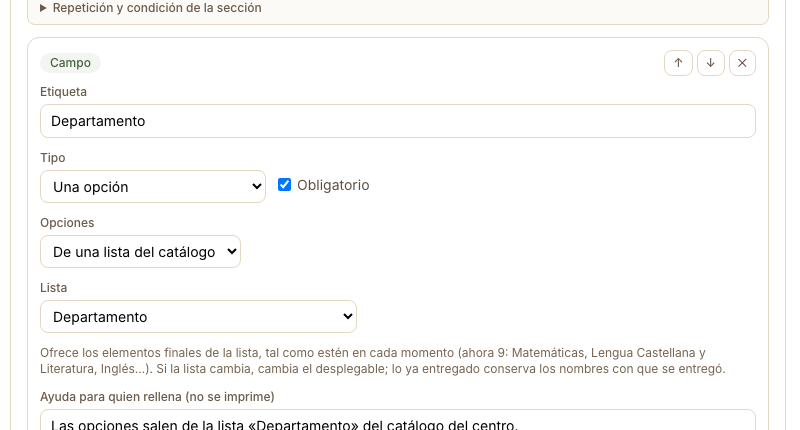
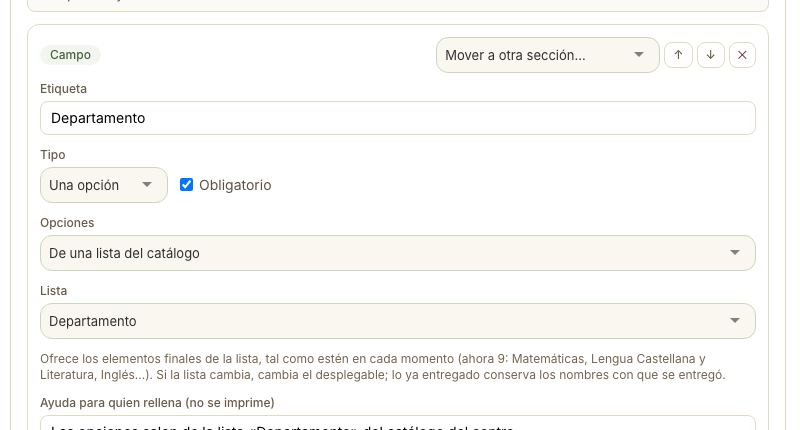
feat(forms): mover un modelo a otra carpeta, mover un bloque a otra sección y «Calcular %» en el resumen de la fila
- «Mover a otra carpeta» en el menú ⋯ de cada modelo: a cualquier carpeta del centro, con sus revisiones; la carpeta de destino decide la revisión y las actividades lo siguen usando. Queda en el registro de actividad.
- Editor: desplegable «Mover a otra sección…» en cada bloque, que lo lleva al final de la sección elegida conservando su clave.
- Resumen de la fila: «Calcular %» escribe [r:A] / [r:B] * 100 con dos columnas elegidas; vacío si B es 0 o está vacía.
- Manual, skills/forms.md y capturas del editor y de la lista de modelos actualizados.

diff --git a/assets/controllers/form_model_editor_controller.js b/assets/controllers/form_model_editor_controller.js
@@ -533,16 +533,53 @@ export default class extends Controller {
         ]);
     }
 
+    /**
+     * Takes a block to the end of another section (any, at any depth). Its key goes with it, so what refers to it still does; whether
+     * it still can from there (in or out of a repeated section) the checks of the draft say, as for any other edit.
+     */
+    moveBlockTo(section, block, targetKey) {
+        const target = this.locate(targetKey);
+        const from = section.blocks.indexOf(block);
+        if (!target || from < 0 || targetKey === section.key) {
+            return;
+        }
+        section.blocks.splice(from, 1);
+        target.list[target.index].blocks.push(block);
+        this.changed();
+        // To where it went, so that it is seen landing.
+        requestAnimationFrame(() => document.getElementById('blk-' + block.key)?.scrollIntoView({ behavior: 'smooth', block: 'center' }));
+    }
+
+    /** Every section but `except`, in reading order, as [key, "2.1. Title"]. */
+    sectionChoices(except) {
+        const numbers = sectionNumbers(this.def.sections);
+        const out = [];
+        const visit = (list, depth) => list.forEach((s) => {
+            if (s.key !== except) {
+                out.push([s.key, ' '.repeat(depth) + (numbers.get(s.key) ? numbers.get(s.key) + '. ' : '') + (s.title || this.l.section)]);
+            }
+            visit(s.children, depth + 1);
+        });
+        visit(this.def.sections, 0);
+
+        return out;
+    }
+
     blockEl(section, block, index) {
         const kinds = { text: this.l.add_text, field: this.l.add_field, table: this.l.add_table };
-        const controls = h('div', { class: 'flex items-center gap-1', role: 'group', 'aria-label': this.l.block_actions }, [
+        const others = this.sectionChoices(section.key);
+        const moveTo = others.length === 0 ? null : h('div', { class: 'w-56' }, [
+            this.select('', [['', this.l.move_to], ...others], (v) => { if (v) { this.moveBlockTo(section, block, v); } }, this.l.move_to),
+        ]);
+        const controls = h('div', { class: 'flex flex-wrap items-center justify-end gap-1', role: 'group', 'aria-label': this.l.block_actions }, [
+            moveTo,
             h('button', { type: 'button', class: BTN, title: this.l.up, 'aria-label': this.l.up, text: '↑', disabled: index === 0, onclick: () => this.moveIn(section.blocks, index, -1) }),
             h('button', { type: 'button', class: BTN, title: this.l.down, 'aria-label': this.l.down, text: '↓', disabled: index === section.blocks.length - 1, onclick: () => this.moveIn(section.blocks, index, 1) }),
             h('button', { type: 'button', class: BTN + ' text-red-700', title: this.l.remove, 'aria-label': this.l.remove, text: '✕', onclick: () => this.removeFrom(section.blocks, index) }),
         ]);
         const body = block.type === 'text' ? this.textBody(block, section) : block.type === 'field' ? this.fieldBody(block) : this.tableBody(block);
 
-        return h('div', { class: 'rounded-xl border border-gray-200 bg-white p-3' }, [
+        return h('div', { id: 'blk-' + block.key, class: 'scroll-mt-20 rounded-xl border border-gray-200 bg-white p-3' }, [
             h('div', { class: 'mb-2 flex items-center justify-between gap-2' }, [
                 h('span', { class: 'rounded-full bg-forest-50 px-2.5 py-0.5 text-xs font-medium text-forest-700', text: kinds[block.type] }),
                 controls,
@@ -944,9 +981,15 @@ export default class extends Controller {
         const numeric = (c) => NUMERIC_TYPES.includes(c.fieldType);
         const read = readRowSummary(current());
         const state = { fn: read ? read.fn : 'sum', keys: read ? read.keys : [] };
-        const apply = () => { if (state.keys.length > 0) { set(rowSummary(state.fn, state.keys)); } };
-        const names = { sum: this.l.total_sum, avg: this.l.total_avg, min: this.l.total_min, max: this.l.total_max, count: this.l.row_summary_count };
-        const fnSelect = this.select(state.fn, ROW_SUMMARY.map((f) => [f, names[f]]), (v) => { state.fn = v; draw(); apply(); }, this.l.row_summary_fn);
+        const apply = () => { const formula = rowSummary(state.fn, state.keys); if (formula !== '') { set(formula); } };
+        const names = { sum: this.l.total_sum, avg: this.l.total_avg, min: this.l.total_min, max: this.l.total_max, count: this.l.row_summary_count, pct: this.l.row_summary_pct };
+        const fnSelect = this.select(state.fn, ROW_SUMMARY.map((f) => [f, names[f]]), (v) => {
+            // Into the percentage: the first two ticked are A and B; out of it, A and B stay ticked.
+            state.keys = v === 'pct' ? state.keys.slice(0, 2) : state.keys.filter((k) => k);
+            state.fn = v;
+            draw();
+            apply();
+        }, this.l.row_summary_fn);
         const list = h('div');
         const body = h('div', { class: 'mt-2 space-y-2' }, [
             h('p', { class: 'text-xs text-gray-500', text: this.l.row_summary_help }),
@@ -956,10 +999,20 @@ export default class extends Controller {
         const draw = () => {
             // Counting takes any column; the other calculations only the numeric ones.
             const columns = (table.columns || []).filter((c) => c.key !== column.key && (state.fn === 'count' || numeric(c)));
-            state.keys = state.keys.filter((k) => columns.some((c) => c.key === k));
+            const known = (k) => columns.some((c) => c.key === k);
+            // The percentage keeps its two places (A, B), even while one is not chosen yet.
+            state.keys = state.fn === 'pct' ? [0, 1].map((i) => (known(state.keys[i]) ? state.keys[i] : '')) : state.keys.filter(known);
+            const pick = (i, label) => this.labelled(label, this.select(state.keys[i], [['', this.l.row_summary_pick], ...columns.map((c) => [c.key, c.label || '…'])], (v) => {
+                state.keys[i] = v;
+                apply();
+            }, label), 'min-w-48');
             list.replaceChildren(
                 columns.length === 0
                     ? h('p', { class: 'text-xs text-gray-500', text: this.l.row_summary_none })
+                    : state.fn === 'pct' ? h('div', { class: 'space-y-1' }, [
+                        h('div', { class: 'flex flex-wrap items-end gap-3' }, [pick(0, this.l.row_summary_pct_a), pick(1, this.l.row_summary_pct_b)]),
+                        h('p', { class: 'text-xs text-gray-500', text: this.l.row_summary_pct_help }),
+                    ])
                     : h('fieldset', { class: 'space-y-1' }, [
                         h('legend', { class: 'mb-1 text-xs font-medium text-gray-700', text: this.l.row_summary_columns }),
                         ...columns.map((c) => h('label', { class: 'flex items-center gap-2 text-sm text-gray-700' }, [
@@ -978,6 +1031,8 @@ export default class extends Controller {
                     ]),
                 ...(readRowSummary(current()) === null && current() !== '' ? [h('p', { class: 'text-xs text-amber-700', text: this.l.row_summary_custom })] : []),
             );
+            // Drawn again after the page (another calculation chosen): its drop-downs get their search box now.
+            if (list.isConnected) { this.enhanceSelects(); }
         };
         draw();
 

diff --git a/assets/utils/form_expression.js b/assets/utils/form_expression.js
@@ -231,13 +231,20 @@ export function evaluate(ast, resolve) {
     return ev(ast);
 }
 
-/** The functions the «summary of the row» assistant of the editor offers: one result out of several cells of the same row. */
-export const ROW_SUMMARY = ['sum', 'avg', 'min', 'max', 'count'];
+/**
+ * The functions the «summary of the row» assistant of the editor offers: one result out of several cells of the same row. `pct` is
+ * not a function of the language: it is the percentage of one column over another, `[r:a] / [r:b] * 100` (empty when B is 0 or empty,
+ * as any division by zero).
+ */
+export const ROW_SUMMARY = ['sum', 'avg', 'min', 'max', 'count', 'pct'];
 
-/** The formula of a summary of the row: `sum([r:a];[r:b])`. Empty when no column is chosen. */
+/** The formula of a summary of the row: `sum([r:a];[r:b])`, `[r:a] / [r:b] * 100`. Empty when the columns it needs are not chosen. */
 export function rowSummary(fn, keys) {
     if (!ROW_SUMMARY.includes(fn) || keys.length === 0) {
         return '';
+    }
+    if (fn === 'pct') {
+        return keys.length === 2 && keys[0] && keys[1] ? `[r:${keys[0]}] / [r:${keys[1]}] * 100` : '';
     }
 
     return `${fn}(${keys.map((k) => `[r:${k}]`).join(';')})`;
@@ -248,6 +255,10 @@ export function rowSummary(fn, keys) {
  * assistant then leaves alone.
  */
 export function readRowSummary(formula) {
+    const pct = /^\s*\[r:([^\]\s;]+)\]\s*\/\s*\[r:([^\]\s;]+)\]\s*\*\s*100\s*$/.exec(formula || '');
+    if (pct) {
+        return { fn: 'pct', keys: [pct[1], pct[2]] };
+    }
     const match = /^\s*([a-z_]+)\s*\(((?:\s*\[r:[^\]\s;]+\]\s*;?)+)\)\s*$/.exec(formula || '');
     if (!match || !ROW_SUMMARY.includes(match[1])) {
         return null;

diff --git a/assets/controllers/model_list_controller.js b/assets/controllers/model_list_controller.js
@@ -50,6 +50,21 @@ export default class extends Controller {
             return;
         }
         this.opener = event.currentTarget;
+        // A dialog shared by every row ("move"): the button says which model, where to send it and its token.
+        if (event.params.action) {
+            const form = dialog.querySelector('form');
+            form.action = event.params.action;
+            form.querySelector('input[name=_token]').value = event.params.token;
+            dialog.querySelectorAll('[data-model-name]').forEach((el) => { el.textContent = event.params.model; });
+            const select = form.querySelector('select[name=folder]');
+            if (select) {
+                if (select.tomselect) { select.tomselect.clear(true); } else { select.value = ''; }
+                // The folder it is in now cannot be chosen: moving there would do nothing.
+                [...select.options].forEach((o) => { o.disabled = o.value !== '' && o.value === event.params.folder; });
+                select.tomselect?.sync();
+            }
+            this.menuTargets.forEach((menu) => { menu.open = false; });
+        }
         dialog.classList.remove('hidden');
         dialog.classList.add('flex');
         const first = dialog.querySelector('input:not([type=hidden]):not([type=file]), select, button');

diff --git a/src/Controller/FormModelLibraryController.php b/src/Controller/FormModelLibraryController.php
@@ -7,12 +7,15 @@ namespace App\Controller;
 use App\Attribute\CurrentCentre;
 use App\Entity\EducationalCentre;
 use App\Entity\Teacher;
+use App\Repository\DocumentRepository;
 use App\Repository\FolderRepository;
 use App\Repository\FormModelRepository;
 use App\Security\Voter\QualityVoter;
+use App\Service\ActivityLogger;
 use App\Service\Form\FormException;
 use App\Service\Form\FormModelPorter;
 use App\Service\Form\FormOfficeWriter;
+use Doctrine\ORM\EntityManagerInterface;
 use Symfony\Bundle\FrameworkBundle\Controller\AbstractController;
 use Symfony\Component\HttpFoundation\File\UploadedFile;
 use Symfony\Component\HttpFoundation\JsonResponse;
@@ -22,8 +25,8 @@ use Symfony\Component\Routing\Attribute\Route;
 use Symfony\Contracts\Translation\TranslatorInterface;
 
 /**
- * Models in and out as files: export (JSON for another centre, DOCX/ODT to work on elsewhere), import (JSON, DOCX, ODT) and copy
- * within the centre. Always for those who manage quality; what comes in is a new draft (see FormModelPorter).
+ * Models in and out as files: export (JSON for another centre, DOCX/ODT to work on elsewhere), import (JSON, DOCX, ODT), copy
+ * within the centre and moving to another folder. Always for those who manage quality; what comes in is a new draft (see FormModelPorter).
  */
 #[Route('/modelos')]
 class FormModelLibraryController extends AbstractController
@@ -35,6 +38,9 @@ class FormModelLibraryController extends AbstractController
         private readonly FolderRepository $folders,
         private readonly FormModelPorter $porter,
         private readonly TranslatorInterface $translator,
+        private readonly DocumentRepository $documents,
+        private readonly EntityManagerInterface $em,
+        private readonly ActivityLogger $activityLogger,
     ) {}
 
     #[Route('/{id}/exportar.{_format}', name: 'app_form_model_export', requirements: ['_format' => 'json|docx|odt'], methods: ['GET'])]
@@ -76,6 +82,46 @@ class FormModelLibraryController extends AbstractController
         );
 
         return $this->redirectToRoute('app_form_model_edit', ['id' => $copy->getId()->toRfc4122()]);
+    }
+
+    /**
+     * Moves the model (its document, with every revision) to another folder of the centre. Like moving a document in the tree: the
+     * revisions keep their history, and from now on the folder it lands in decides the review. Activities keep using it (they point
+     * at the model, not at the folder).
+     */
+    #[Route('/{id}/mover', name: 'app_form_model_move', methods: ['POST'])]
+    public function move(string $id, Request $request, #[CurrentCentre] EducationalCentre $centre): Response
+    {
+        $this->denyAccessUnlessGranted(QualityVoter::MANAGE, $centre);
+        if (!$this->isCsrfTokenValid('form_model_move_' . $id, $request->request->getString('_token'))) {
+            throw $this->createAccessDeniedException();
+        }
+        $model    = $this->models->findByIdAndCentre($id, $centre) ?? throw $this->createNotFoundException();
+        $document = $model->getDocument();
+        $from     = $document->getFolder();
+        $to       = $this->folders->findById($request->request->getString('folder'));
+        if ($to === null || $to->getEducationalCentre()->getId()->toRfc4122() !== $centre->getId()->toRfc4122()) {
+            $this->addFlash('error', $this->translator->trans('models.error.move', [], 'forms'));
+
+            return $this->redirectToRoute('app_form_models');
+        }
+
+        if ($to !== $from) {
+            $document->setFolder($to);
+            $document->setPosition($this->documents->nextPosition($to));
+            $this->em->flush();
+            $this->activityLogger->record('document.move', [
+                'document' => $document->getName(),
+                'from'     => $from->getDocumentSection()->getName() . ' › ' . $from->getName(),
+                'to'       => $to->getDocumentSection()->getName() . ' › ' . $to->getName(),
+            ], $centre);
+        }
+        $this->addFlash('success', $this->translator->trans('models.moved', [
+            '%name%'   => $document->getName(),
+            '%folder%' => $to->getDocumentSection()->getName() . ' › ' . $to->getName(),
+        ], 'forms'));
+
+        return $this->redirectToRoute('app_form_models');
     }
 
     /** Creates a model from an uploaded JSON (exported by this application), DOCX or ODT, in the folder chosen. */

diff --git a/tests/Integration/Controller/FormLibraryTest.php b/tests/Integration/Controller/FormLibraryTest.php
@@ -126,6 +126,35 @@ final class FormLibraryTest extends ControllerTestCase
         self::assertContains('Copia de Ficha de visita', $names);
     }
 
+    public function testMovingTakesTheModelToAnotherFolderOfTheCentreOnly(): void
+    {
+        $section = $this->em->getRepository(DocumentSection::class)->find($this->folder->getDocumentSection()->getId());
+        $target  = (new Folder())->setDocumentSection($section)->setName('Memorias');
+        $other   = (new EducationalCentre())->setCode('87654321')->setName('Otro')->setCity('Ciudad');
+        $foreign = (new Folder())->setDocumentSection((new DocumentSection())->setEducationalCentre($other)->setName('Ajena'))->setName('Ajena');
+        $this->persist($target, $other, $foreign->getDocumentSection(), $foreign);
+        $id = $this->model->getId()->toRfc4122();
+
+        $this->client->request('GET', '/modelos');
+        self::assertSelectorExists('[data-testid="move"]');
+        $token = $this->csrfToken('form_model_move_' . $id);
+
+        // Another centre's folder, or a bad token: it stays where it is.
+        $this->client->request('POST', "/modelos/{$id}/mover", ['_token' => $token, 'folder' => $foreign->getId()->toRfc4122()]);
+        self::assertResponseRedirects('/modelos');
+        $this->client->request('POST', "/modelos/{$id}/mover", ['_token' => 'malo', 'folder' => $target->getId()->toRfc4122()]);
+        self::assertResponseStatusCodeSame(403);
+        $this->em->clear();
+        self::assertSame('Modelos', $this->em->getRepository(FormModel::class)->find($this->model->getId())->getDocument()->getFolder()->getName());
+
+        $this->client->request('POST', "/modelos/{$id}/mover", ['_token' => $token, 'folder' => $target->getId()->toRfc4122()]);
+        self::assertResponseRedirects('/modelos');
+        $this->em->clear();
+        self::assertSame('Memorias', $this->em->getRepository(FormModel::class)->find($this->model->getId())->getDocument()->getFolder()->getName());
+        $this->client->followRedirect();
+        self::assertSelectorTextContains('body', '«Ficha de visita» está ahora en Sección › Memorias.');
+    }
+
     #[DataProvider('formats')]
     public function testOfficeExportIsAValidFileThatImportsBackAsAnOutline(string $format, string $entry): void
     {

diff --git a/docs/manual/12-modelos-de-documento.md b/docs/manual/12-modelos-de-documento.md
@@ -43,8 +43,12 @@ revisión aprobada, pendiente de aprobar o con cambios en el borrador sin enviar
 documental. Se puede **ordenar** por nombre, código, última modificación o estado, y **agrupar** por sección
 o por estado (cada grupo se pliega pulsando su título). El botón ámbar **Necesitan atención** filtra los
 modelos con una revisión pendiente de aprobar o con cambios sin enviar. Con muchos modelos, la lista
-muestra 50 cada vez y ofrece **Mostrar más**. Exportar y Duplicar están en el menú **⋯** de cada fila; el
-orden y la agrupación elegidos se recuerdan en el navegador.
+muestra 50 cada vez y ofrece **Mostrar más**. Exportar, Duplicar y **Mover a otra carpeta** están en
+el menú **⋯** de cada fila; el orden y la agrupación elegidos se recuerdan en el navegador.
+
+**Mover a otra carpeta** lleva el modelo, con todas sus revisiones y su historial, a cualquier carpeta
+del centro (también de otra sección). Desde ese momento sus revisiones las aprueba quien revise la
+carpeta de destino; las actividades que lo usan siguen usándolo y lo ya entregado no cambia.
 
 Un modelo se compone de **secciones** (numeradas jerárquicamente, anidables) con estos bloques:
 
@@ -83,7 +87,9 @@ Un modelo se compone de **secciones** (numeradas jerárquicamente, anidables) co
 - **Resumen de la fila**: en una columna calculada de una tabla, el recuadro «Resumen de la fila»
   calcula la suma, la media, el mínimo, el máximo o cuántas tienen algo de las columnas que marques
   **de la misma fila** (por ejemplo, «Total» = «Horas teoría» + «Horas práctica»), sin escribir la
-  fórmula. Escribe una fórmula normal, que puedes seguir retocando a mano.
+  fórmula. Con **Calcular %** se eligen dos columnas, A (la parte) y B (el total), y calcula
+  A / B × 100 (por ejemplo, «% de aprobados» = «Aprobados» / «Matriculados» × 100); si B es 0 o
+  está vacía, la celda queda vacía. Escribe una fórmula normal, que puedes seguir retocando a mano.
 - **Total al pie de una columna** numérica o calculada (cuenta, suma, media, mínimo o máximo): el
   valor se ve al final de la columna. Si le pones un **nombre**, además es un campo del documento
   (no se muestra aparte: está solo al pie de la tabla) y sirve en fórmulas, indicadores, reglas y
@@ -136,6 +142,11 @@ Además:
   que escribas).
 - **Columnas de relación**: una columna cuyas opciones son las filas de otra tabla.
 - **Ayuda** en cada campo, que se ve al rellenar pero no se imprime.
+- **Mover un bloque a otra sección**: además de subirlo y bajarlo con las flechas, cada bloque tiene el
+  desplegable **Mover a otra sección…**, que lo lleva al final de la sección elegida (a cualquier
+  nivel). Las fórmulas, condiciones y referencias que lo usan lo siguen encontrando; si desde su nuevo
+  sitio ya no pueden (por ejemplo, al sacar un campo de una sección repetida), el editor lo señala entre
+  los problemas por resolver.
 
 El botón **Vista previa** muestra el modelo en blanco, tal como se verá.
 
@@ -148,7 +159,7 @@ puede ser una lista entera o una rama («Enseñanza › FP»). Las opciones son 
 en su orden, y cada una se llama por su ruta bajo el elemento elegido («Ciencias › Física»); los
 elementos inactivos no se ofrecen.
 
-![Editor del campo «Departamento» de la «Memoria de departamento»: Opciones «De una lista del catálogo», lista «Departamento», y debajo cuántas opciones ofrece ahora (9: Matemáticas, Lengua Castellana y Literatura…)](img/modelos-editor-lista.png)
+![Editor del campo «Departamento» de la «Memoria de departamento», con el desplegable «Mover a otra sección…» y las flechas en su cabecera: Opciones «De una lista del catálogo», lista «Departamento», y debajo cuántas opciones ofrece ahora (9: Matemáticas, Lengua Castellana y Literatura…)](img/modelos-editor-lista.png)
 
 Las opciones **no se copian al modelo: se leen de la lista cada vez que alguien rellena**, igual que
 las actividades siguen al catálogo. Un elemento nuevo aparece solo, uno renombrado cambia de nombre y

diff --git a/skills/forms.md b/skills/forms.md
@@ -133,9 +133,14 @@ because a script cannot read them: add a new icon in both places; the Spanish la
   them) with the number under each and the words of the ends at the sides, in a fieldset; «Borrar la respuesta» for an optional one; a
   drop-down in a table cell.
 - **«Resumen de la fila»** (editor only, no grammar change): a calculated table column gets a box that writes `fn([r:A];[r:B])` from a
-  function (`ROW_SUMMARY`: sum avg min max count) and ticked columns (`rowSummary()` / `readRowSummary()` in `form_expression.js`,
+  function (`ROW_SUMMARY`: sum avg min max count pct) and ticked columns (`rowSummary()` / `readRowSummary()` in `form_expression.js`,
   tested in `form-expression.test.mjs`). It recognises only formulas of exactly that shape; anything else is left alone until a box is
-  ticked. Counting offers any column, the rest only number/calculated ones.
+  ticked. Counting offers any column, the rest only number/calculated ones. `pct` is not a function of the language: it writes
+  `[r:A] / [r:B] * 100` from two drop-downs (A, B; order matters) and relies on division by 0 or by an empty cell giving null in both
+  engines (cases in `form-expressions.json`).
+- **Moving**: a block goes to another section with the editor's «Mover a otra sección…» (`moveBlockTo()`: same key, end of the target;
+  the draft's checks flag references that are out of scope from there). A whole model goes to another folder of the centre with
+  `POST /modelos/{id}/mover` (`FormModelLibraryController::move`, logged as `document.move`): the folder only decides the review.
 - **Consistency rules** (`definition.rules`: `{expr, message, severity: warning|block}`): evaluated against the whole document by
   `FormDataValidator`; a broken rule blocks the delivery or only warns, as the model says; a rule that cannot be decided is not broken.
   The save response carries `problems` (blocking) and `warnings`.

diff --git a/CHANGELOG.md b/CHANGELOG.md
@@ -7,6 +7,12 @@ a [Semantic Versioning](https://semver.org/lang/es/).
 
 ## [Unreleased]
 
+### Added
+
+- Modelos de documento: **Mover a otra carpeta** en el menú ⋯ de cada modelo, a cualquier carpeta del centro, con todas sus revisiones; desde entonces lo revisa quien revise la carpeta de destino y las actividades lo siguen usando.
+- Editor de modelos: cada bloque se puede llevar a otra sección con el desplegable «Mover a otra sección…».
+- Editor de modelos: el «Resumen de la fila» ofrece **Calcular %**, que con dos columnas A y B calcula A / B × 100 (vacío si B es 0 o está vacía).
+
 ## [2.8.0] - 2026-11-24
 
 ### Added
